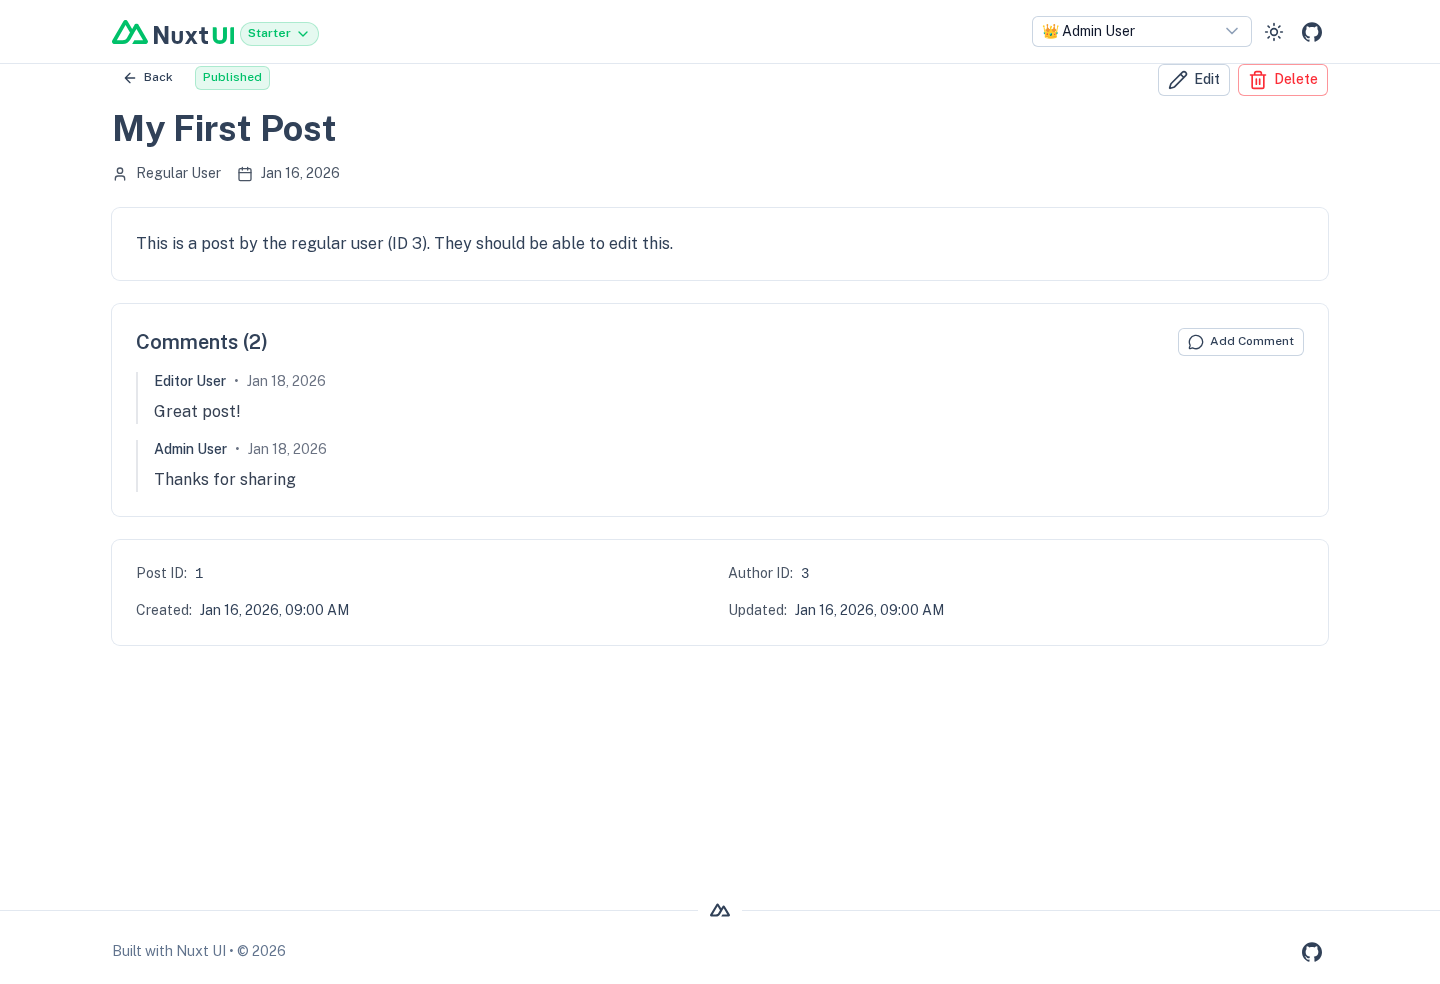
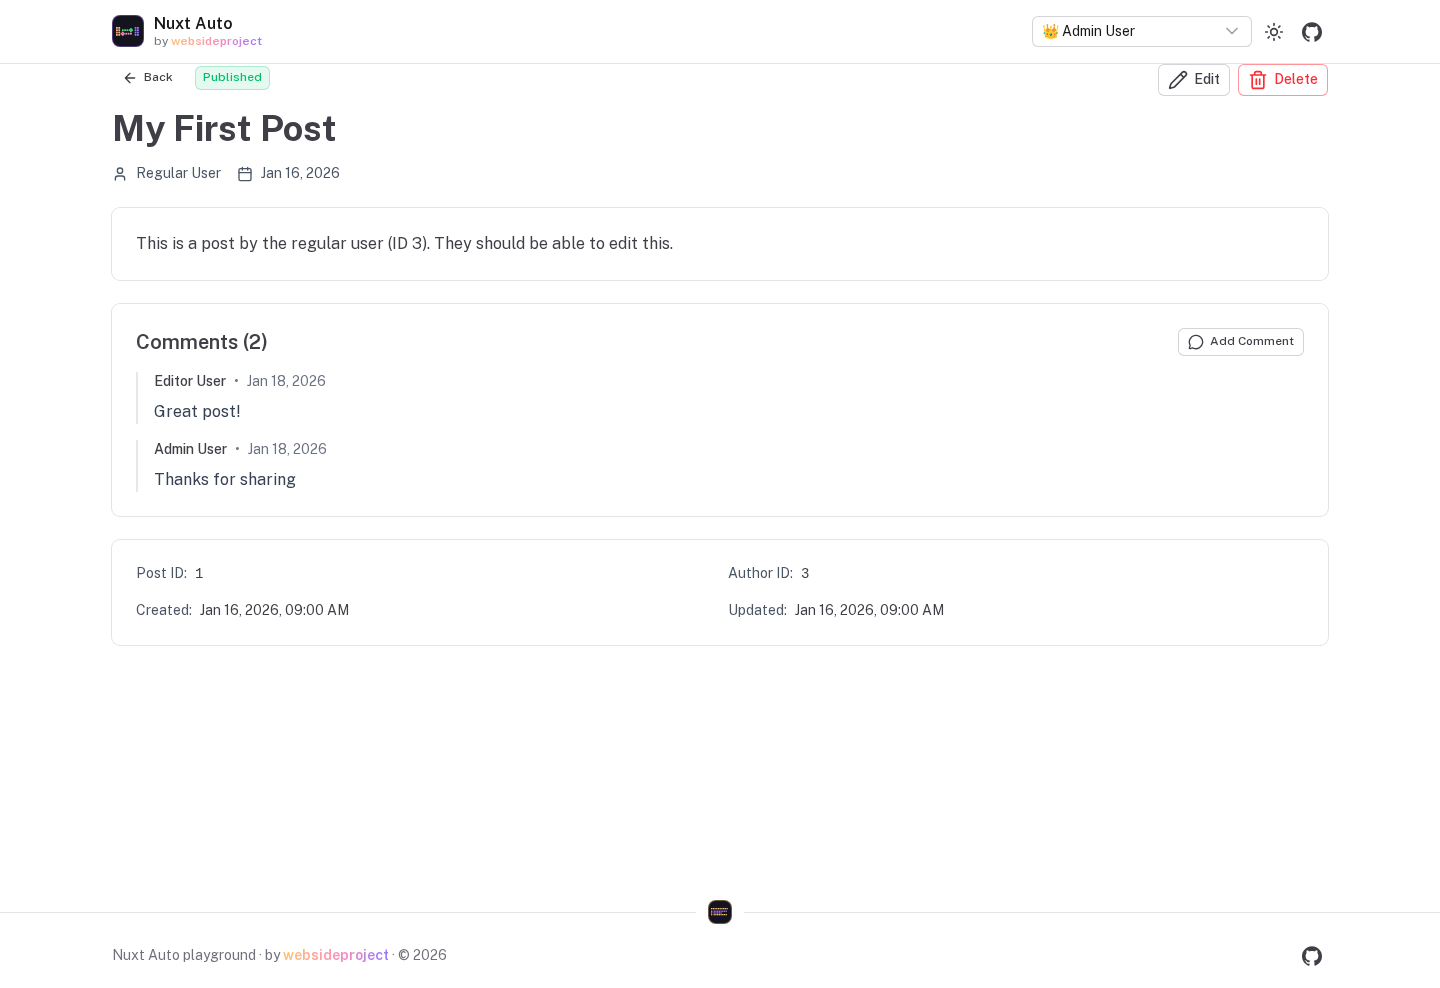
feat(playground): websideproject branding instead of the Nuxt UI template's
The playground still wore the Nuxt UI starter: its logo, the "Starter" template menu,
a Nuxt separator icon, "Built with Nuxt UI" and the template's og image.

- Header: the nuxt-auto-api pixel mark, "Nuxt Auto", and "by websideproject" in the
  websideproject gradient (amber, pink, violet), static
- Footer: "Nuxt Auto playground · by websideproject", the nuxt-auto-admin mark on the
  separator
- Favicon and the admin's sidebar logo: SVGs of the two marks
- Theme: zinc neutral, primary black on light and white on dark, amber selection
- ProductLogo.vue (the two marks) and ColourfulText.vue (static gradient text)

Screenshots regenerated.

diff --git a/apps/playground/app/components/AppLogo.vue b/apps/playground/app/components/AppLogo.vue
@@ -1,40 +1,12 @@
 <template>
-  <svg
-    width="1020"
-    height="200"
-    viewBox="0 0 1020 200"
-    fill="none"
-    xmlns="http://www.w3.org/2000/svg"
-  >
-    <path
-      d="M377 200C379.16 200 381 198.209 381 196V103C381 103 386 112 395 127L434 194C435.785 197.74 439.744 200 443 200H470V50H443C441.202 50 439 51.4941 439 54V148L421 116L385 55C383.248 51.8912 379.479 50 376 50H350V200H377Z"
-      fill="currentColor"
+  <span class="flex items-center gap-2.5">
+    <ProductLogo
+      kind="auto-api"
+      class="size-8"
     />
-    <path
-      d="M726 92H739C742.314 92 745 89.3137 745 86V60H773V92H800V116H773V159C773 169.5 778.057 174 787 174H800V200H783C759.948 200 745 185.071 745 160V116H726V92Z"
-      fill="currentColor"
-    />
-    <path
-      d="M591 92V154C591 168.004 585.742 179.809 578 188C570.258 196.191 559.566 200 545 200C530.434 200 518.742 196.191 511 188C503.389 179.809 498 168.004 498 154V92H514C517.412 92 520.769 92.622 523 95C525.231 97.2459 526 98.5652 526 102V154C526 162.059 526.457 167.037 530 171C533.543 174.831 537.914 176 545 176C552.217 176 555.457 174.831 559 171C562.543 167.037 563 162.059 563 154V102C563 98.5652 563.769 96.378 566 94C567.96 91.9107 570.028 91.9599 573 92C573.411 92.0055 574.586 92 575 92H591Z"
-      fill="currentColor"
-    />
-    <path
-      d="M676 144L710 92H684C680.723 92 677.812 93.1758 676 96L660 120L645 97C643.188 94.1758 639.277 92 636 92H611L645 143L608 200H634C637.25 200 640.182 196.787 642 194L660 167L679 195C680.818 197.787 683.75 200 687 200H713L676 144Z"
-      fill="currentColor"
-    />
-    <path
-      d="M168 200H279C282.542 200 285.932 198.756 289 197C292.068 195.244 295.23 193.041 297 190C298.77 186.959 300.002 183.51 300 179.999C299.998 176.488 298.773 173.04 297 170.001L222 41C220.23 37.96 218.067 35.7552 215 34C211.933 32.2448 207.542 31 204 31C200.458 31 197.067 32.2448 194 34C190.933 35.7552 188.77 37.96 187 41L168 74L130 9.99764C128.228 6.95784 126.068 3.75491 123 2C119.932 0.245087 116.542 0 113 0C109.458 0 106.068 0.245087 103 2C99.9323 3.75491 96.7717 6.95784 95 9.99764L2 170.001C0.226979 173.04 0.00154312 176.488 1.90993e-06 179.999C-0.0015393 183.51 0.229648 186.959 2 190C3.77035 193.04 6.93245 195.244 10 197C13.0675 198.756 16.4578 200 20 200H90C117.737 200 137.925 187.558 152 164L186 105L204 74L259 168H186L168 200ZM89 168H40L113 42L150 105L125.491 147.725C116.144 163.01 105.488 168 89 168Z"
-      fill="var(--ui-primary)"
-    />
-    <path
-      d="M958 60.0001H938C933.524 60.0001 929.926 59.9395 927 63C924.074 65.8905 925 67.5792 925 72V141C925 151.372 923.648 156.899 919 162C914.352 166.931 908.468 169 899 169C889.705 169 882.648 166.931 878 162C873.352 156.899 873 151.372 873 141V72.0001C873 67.5793 872.926 65.8906 870 63.0001C867.074 59.9396 863.476 60.0001 859 60.0001H840V141C840 159.023 845.016 173.458 855 184C865.156 194.542 879.893 200 899 200C918.107 200 932.844 194.542 943 184C953.156 173.458 958 159.023 958 141V60.0001Z"
-      fill="var(--ui-primary)"
-    />
-    <path
-      fill-rule="evenodd"
-      clip-rule="evenodd"
-      d="M1000 60.0233L1020 60V77L1020 128V156.007L1020 181L1020 189.004C1020 192.938 1019.98 194.429 1017 197.001C1014.02 199.725 1009.56 200 1005 200H986.001V181.006L986 130.012V70.0215C986 66.1576 986.016 64.5494 989 62.023C991.819 59.6358 995.437 60.0233 1000 60.0233Z"
-      fill="var(--ui-primary)"
-    />
-  </svg>
+    <span class="flex flex-col leading-tight">
+      <span class="font-semibold text-highlighted">Nuxt Auto</span>
+      <span class="text-xs text-muted">by <ColourfulText class="font-semibold" /></span>
+    </span>
+  </span>
 </template>

diff --git a/apps/playground/app/components/ProductLogo.vue b/apps/playground/app/components/ProductLogo.vue
@@ -1,0 +1,72 @@
+<template>
+  <span
+    class="inline-flex shrink-0 items-center justify-center rounded-lg"
+    :style="{ background: SURFACE, border: `1px solid ${logo.accent}66` }"
+    role="img"
+    :aria-label="kind === 'auto-api' ? 'nuxt-auto-api' : 'nuxt-auto-admin'"
+  >
+    <svg
+      class="w-[78%] overflow-visible"
+      :viewBox="`0 0 ${logo.vb[0]} ${logo.vb[1]}`"
+      aria-hidden="true"
+    >
+      <template
+        v-for="(group, g) in logo.groups"
+        :key="g"
+      >
+        <rect
+          v-for="([x, y], i) in group.px"
+          :key="i"
+          :x="x"
+          :y="y"
+          width="1.5"
+          height="1.5"
+          :fill="group.fill"
+        />
+      </template>
+    </svg>
+  </span>
+</template>
+
+<script setup lang="ts">
+// The nuxt-auto product marks: pixel art in the websideproject gradient (amber · pink · violet) on a dark tile.
+// Size it from the outside (`class="size-8"`); the mark fills 78% of the tile's width.
+type Kind = 'auto-api' | 'auto-admin'
+type Px = [number, number]
+
+const props = withDefaults(defineProps<{ kind?: Kind }>(), { kind: 'auto-api' })
+
+const VIOLET = '#9e7aff'
+const AMBER = '#ffbd7a'
+const PINK = '#fe8bbb'
+const GREEN = '#4ade80'
+const SURFACE = '#14141e'
+
+const LOGOS: Record<Kind, { vb: [number, number], accent: string, groups: { px: Px[], fill: string }[] }> = {
+  // client (amber) ↔ server (violet), with request (green) and response (pink) arrows
+  'auto-api': {
+    vb: [20, 8],
+    accent: VIOLET,
+    groups: [
+      { px: [[0, 0], [2, 0], [0, 2], [2, 2], [0, 4], [2, 4], [0, 6], [2, 6]], fill: AMBER },
+      { px: [[16, 0], [18, 0], [16, 2], [18, 2], [16, 4], [18, 4], [16, 6], [18, 6]], fill: VIOLET },
+      { px: [[5, 2], [7, 2], [9, 2], [11, 2], [12, 1], [13, 2], [12, 3]], fill: GREEN },
+      { px: [[6, 5], [8, 5], [10, 5], [12, 5], [5, 4], [4, 5], [5, 6]], fill: PINK }
+    ]
+  },
+  // a table: amber header, pink checkboxes, violet and amber rows
+  'auto-admin': {
+    vb: [20, 9],
+    accent: AMBER,
+    groups: [
+      { px: [[0, 0], [2, 0], [4, 0], [6, 0], [8, 0], [10, 0], [12, 0], [14, 0], [16, 0], [18, 0]], fill: AMBER },
+      { px: [[0, 3], [0, 5], [0, 7]], fill: PINK },
+      { px: [[3, 3], [5, 3], [7, 3], [9, 3], [11, 3], [13, 3], [15, 3], [17, 3]], fill: VIOLET },
+      { px: [[3, 5], [5, 5], [7, 5], [9, 5], [11, 5]], fill: VIOLET },
+      { px: [[3, 7], [5, 7], [7, 7], [9, 7], [11, 7], [13, 7], [15, 7], [17, 7]], fill: AMBER }
+    ]
+  }
+}
+
+const logo = computed(() => LOGOS[props.kind])
+</script>

diff --git a/apps/playground/app/app.vue b/apps/playground/app/app.vue
@@ -4,7 +4,7 @@ useHead({
     { name: 'viewport', content: 'width=device-width, initial-scale=1' }
   ],
   link: [
-    { rel: 'icon', href: '/favicon.ico' }
+    { rel: 'icon', type: 'image/svg+xml', href: '/favicon.svg' }
   ],
   htmlAttrs: {
     lang: 'en'
@@ -19,9 +19,7 @@ useSeoMeta({
   description,
   ogTitle: title,
   ogDescription: description,
-  ogImage: 'https://ui.nuxt.com/assets/templates/nuxt/starter-light.png',
-  twitterImage: 'https://ui.nuxt.com/assets/templates/nuxt/starter-light.png',
-  twitterCard: 'summary_large_image'
+  twitterCard: 'summary'
 })
 
 // Initialize auth session on mount
@@ -35,13 +33,12 @@ onMounted(() => {
   <UApp>
     <UHeader>
       <template #left>
-        <NuxtLink to="/">
-          <AppLogo class="w-auto h-6 shrink-0" />
+        <NuxtLink
+          to="/"
+          aria-label="Nuxt Auto playground"
+        >
+          <AppLogo />
         </NuxtLink>
-
-        <div class="hidden sm:block">
-          <TemplateMenu />
-        </div>
       </template>
 
       <template #right>
@@ -67,12 +64,17 @@ onMounted(() => {
       </NuxtLayout>
     </UMain>
 
-    <USeparator icon="i-simple-icons-nuxtdotjs" />
+    <USeparator>
+      <ProductLogo
+        kind="auto-admin"
+        class="size-6"
+      />
+    </USeparator>
 
     <UFooter>
       <template #left>
         <p class="text-sm text-muted">
-          Built with Nuxt UI • © {{ new Date().getFullYear() }}
+          Nuxt Auto playground · by <ColourfulText class="font-semibold" /> · © {{ new Date().getFullYear() }}
         </p>
       </template>
 

diff --git a/apps/playground/app/components/ColourfulText.vue b/apps/playground/app/components/ColourfulText.vue
@@ -1,0 +1,27 @@
+<template>
+  <span :aria-label="text"><span
+    v-for="(char, i) in text"
+    :key="i"
+    aria-hidden="true"
+    :style="{ color: colorAt(i) }"
+  >{{ char }}</span></span>
+</template>
+
+<script setup lang="ts">
+// The websideproject wordmark: each letter a step along the amber → pink → violet gradient. Static.
+const props = withDefaults(defineProps<{ text?: string, colors?: [number, number, number][] }>(), {
+  text: 'websideproject',
+  colors: () => [[255, 189, 122], [254, 139, 187], [158, 122, 255]]
+})
+
+function colorAt(i: number): string {
+  const steps = Math.max(props.text.length - 1, 1)
+  const segments = props.colors.length - 1
+  const t = (i / steps) * segments
+  const k = Math.min(Math.floor(t), segments - 1)
+  const f = t - k
+  const [a, b] = [props.colors[k]!, props.colors[k + 1]!]
+  const mix = (n: number) => Math.round(a[n]! + (b[n]! - a[n]!) * f)
+  return `rgb(${mix(0)}, ${mix(1)}, ${mix(2)})`
+}
+</script>

diff --git a/apps/playground/app/assets/css/main.css b/apps/playground/app/assets/css/main.css
@@ -16,3 +16,20 @@
   --color-green-900: #0A5331;
   --color-green-950: #052E16;
 }
+
+/* websideproject: the primary colour is ink, black on light and white on dark; colour comes from the logo */
+:root {
+  --ui-primary: black;
+}
+
+.dark {
+  --ui-primary: white;
+  --ui-bg: var(--ui-color-neutral-950);
+  --ui-bg-muted: var(--ui-color-neutral-900);
+  --ui-bg-elevated: var(--ui-color-neutral-900);
+  --ui-bg-accented: var(--ui-color-neutral-800);
+}
+
+::selection {
+  background: color-mix(in srgb, #ffbd7a 40%, transparent);
+}

diff --git a/apps/playground/nuxt.config.ts b/apps/playground/nuxt.config.ts
@@ -43,8 +43,7 @@ export default defineNuxtConfig({
     prefix: '/admin',
     branding: {
       title: 'Auto Admin Demo',
-      // logo: '/logo.svg'
-      logo: '/favicon.ico'
+      logo: '/logo-auto-admin.svg'
     },
     permissions: {
       // 'disable' = show buttons/sidebar items but disable them (default)

diff --git a/apps/playground/app/app.config.ts b/apps/playground/app/app.config.ts
@@ -2,7 +2,7 @@ export default defineAppConfig({
   ui: {
     colors: {
       primary: 'green',
-      neutral: 'slate'
+      neutral: 'zinc'
     }
   }
 })
